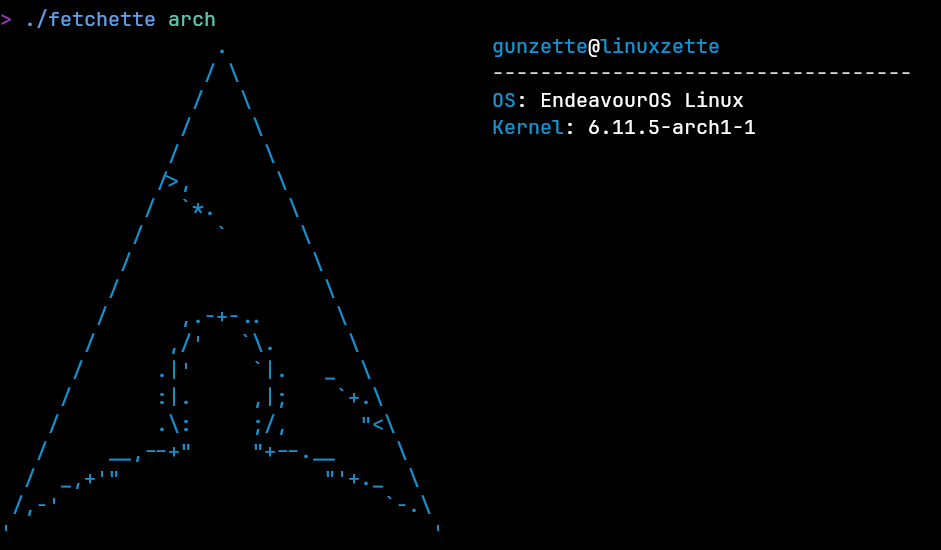
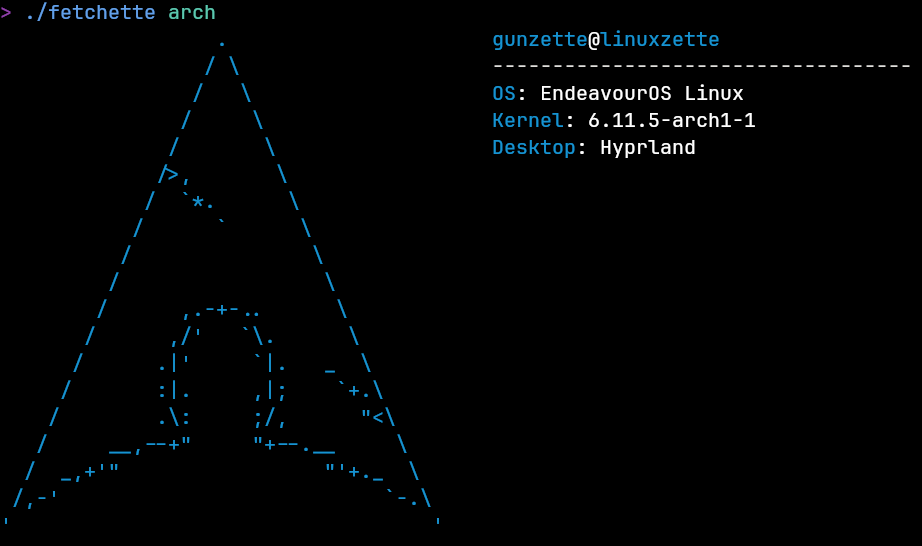
added current desktop module

diff --git a/fetchette.go b/fetchette.go
@@ -81,7 +81,7 @@ func main() {
 
 	userAtHost := modules.GetUserAtHost()
 
-	err := displayFetch(os.Args[1]+"Colors.json", []string{userAtHost, strings.Repeat("-", utf8.RuneCountInString(userAtHost)), modules.GetOS(), modules.GetKernel()})
+	err := displayFetch(os.Args[1]+"Colors.json", []string{userAtHost, strings.Repeat("-", utf8.RuneCountInString(userAtHost)), modules.GetOS(), modules.GetKernel(), modules.GetDesktop()})
 	if err != nil {
 		log.Fatal("Error while displaying fetch: ", err)
 	}

diff --git a/modules/desktop.go b/modules/desktop.go
@@ -1,0 +1,14 @@
+package modules
+
+import (
+	"os"
+)
+
+func getDesktopLinux() string {
+	out := os.Getenv("XDG_CURRENT_DESKTOP")
+	return out
+}
+
+func GetDesktop() string {
+	return "{01}Desktop{02}: " + getDesktopLinux() + "{-1}"
+}
